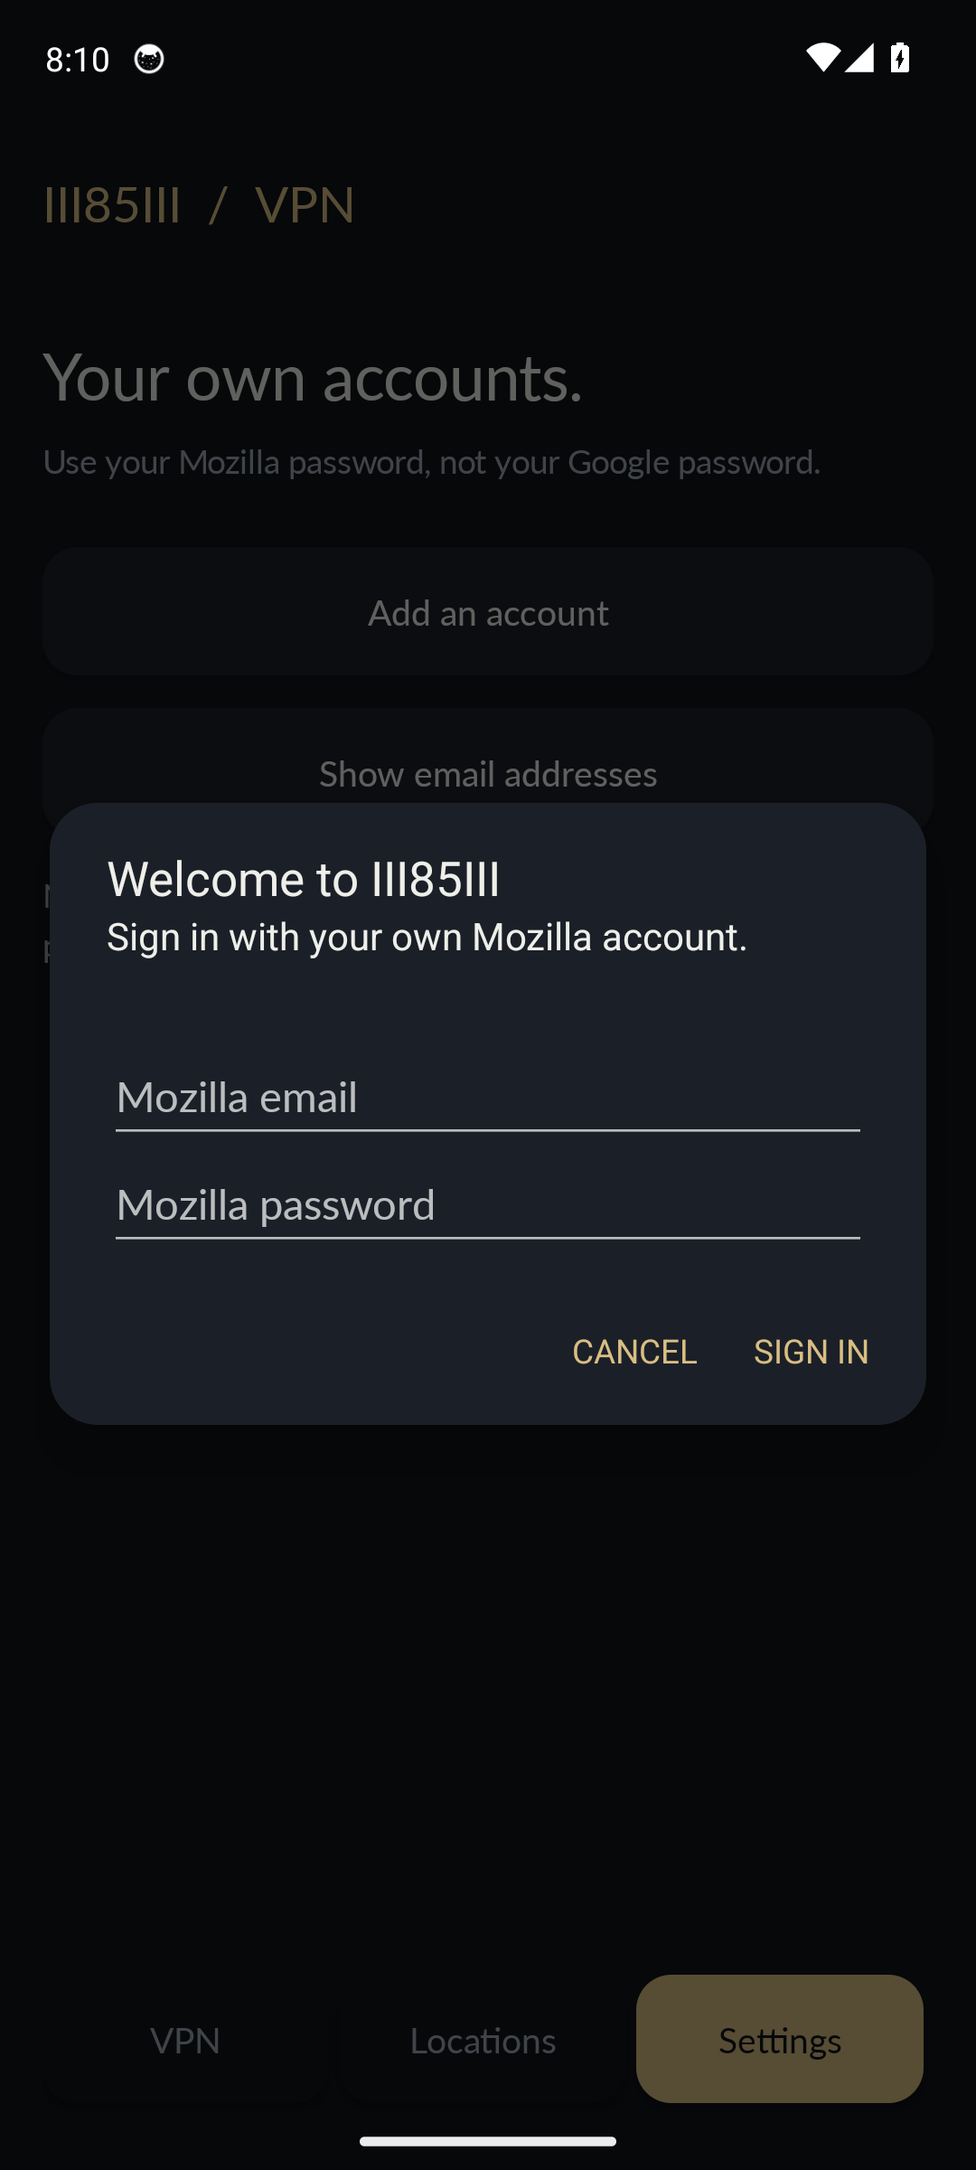
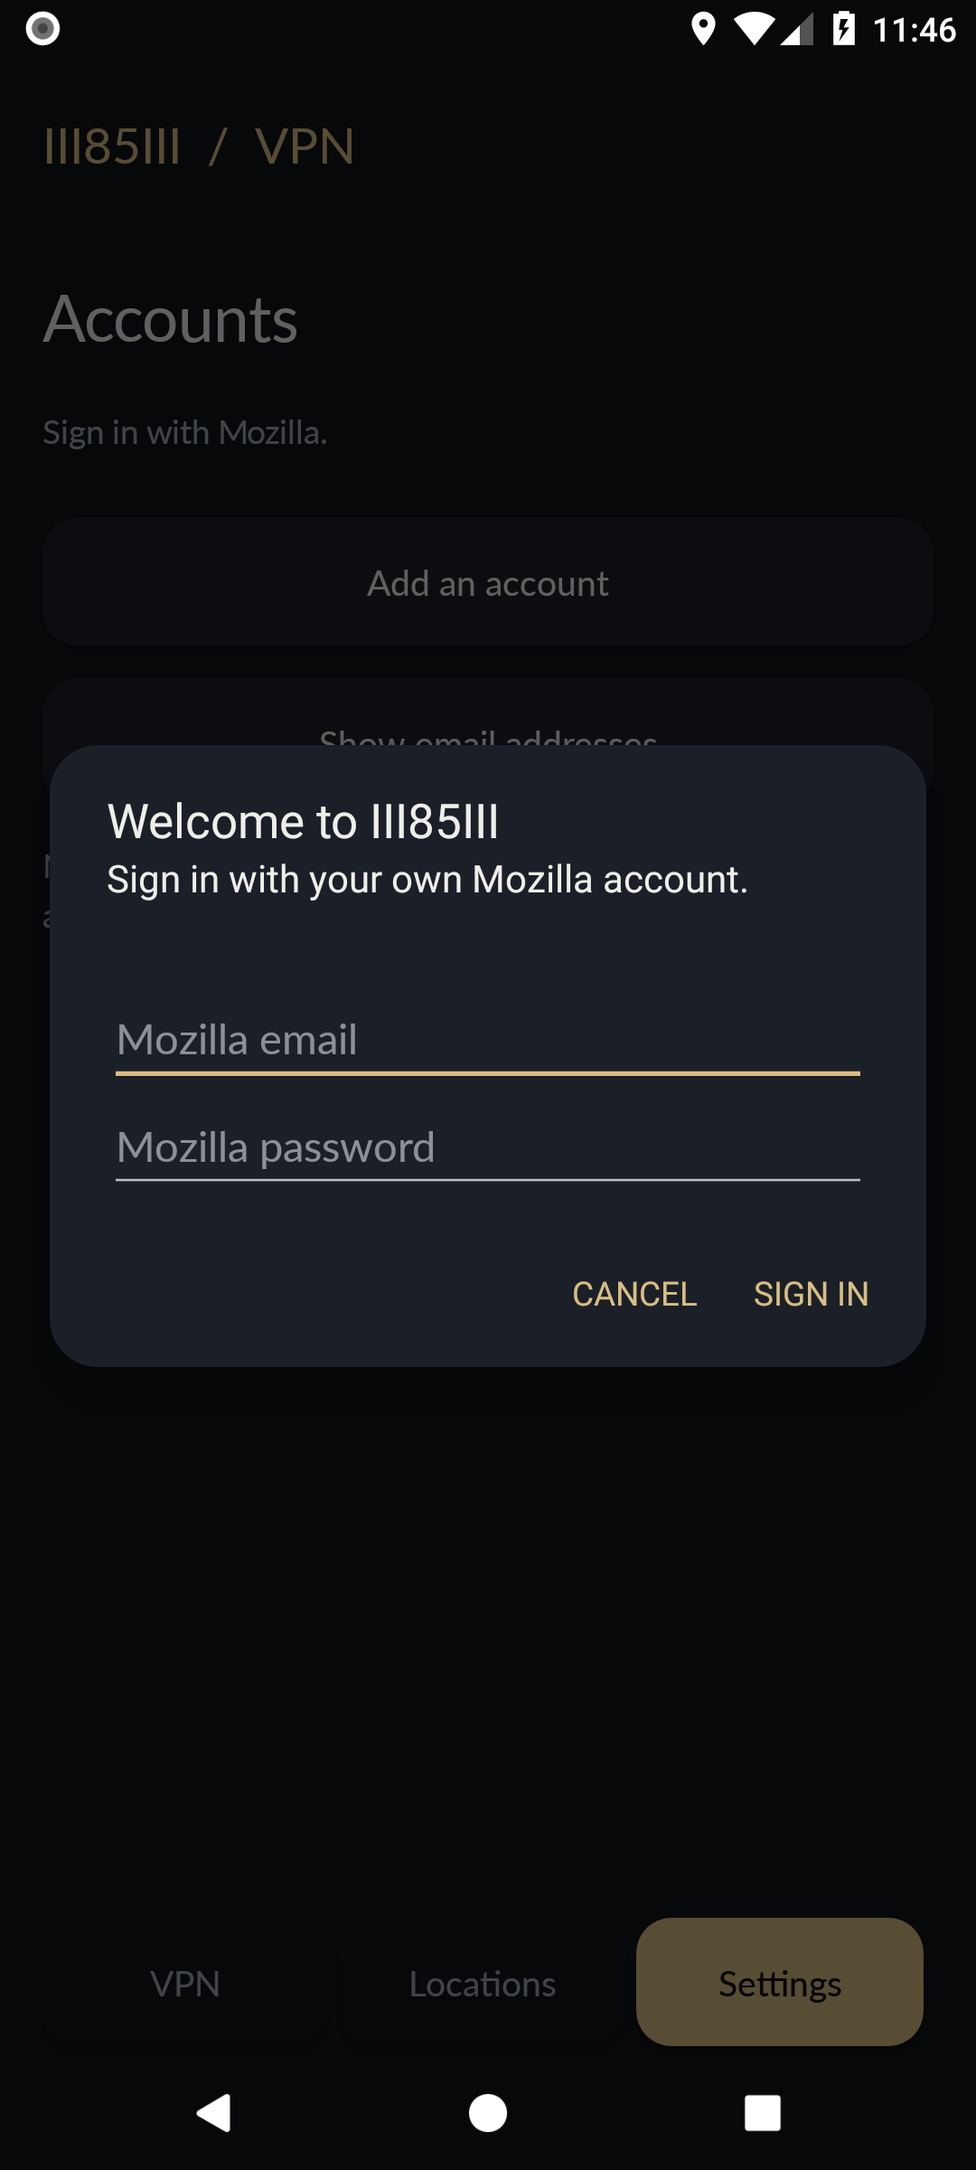
Polish app notices and document validated tunnel fix

diff --git a/native/III85III.Vpn.cs b/native/III85III.Vpn.cs
@@ -553,7 +553,7 @@ namespace III85III.Vpn {
 
     internal sealed class LocationCard : KeyboardActionControl {
         public string LocationName = "Recommended";
-        public string Subtitle = "We'll choose a location for you";
+        public string Subtitle = "Automatic server";
         public string Latency = "— ms";
         public string CountryCode = "";
         private bool isHovered, isPressed;
@@ -1079,7 +1079,7 @@ namespace III85III.Vpn {
             });};
             removeAccountBtn.Click += async delegate {
                 if (accountsList.SelectedItems.Count == 0) return;
-                if (MessageBox.Show(this, "Remove this Mozilla account and its stored credentials?", "Remove account", MessageBoxButtons.YesNo, MessageBoxIcon.Question) != DialogResult.Yes) return;
+                if (!ConfirmAction("Remove account?","This removes the saved session from this device.","Remove")) return;
                 await Run(async delegate {
                     string id = Convert.ToString(accountsList.SelectedItems[0].Tag);
                     await engine.Api("DELETE", "/api/accounts/" + Uri.EscapeDataString(id));
@@ -1116,7 +1116,7 @@ namespace III85III.Vpn {
                         await LoadLocations();
                     } catch { }
                 } catch (Exception e) {
-                    dialSubtext.Text = "Engine error: " + e.Message;
+                    ShowFailure(e.Message);
                     logsBox.Text = e.Message;
                 }
             };
@@ -1298,7 +1298,7 @@ namespace III85III.Vpn {
 
             p.Controls.Add(metricsPanel);
 
-            noticeLabel.Text = "Account saved on this device.";
+            noticeLabel.Text = "Accounts stay on this device.";
             noticeLabel.Font = Theme.Font(9f);
             noticeLabel.ForeColor = Theme.TextSubtle;
             noticeLabel.TextAlign = ContentAlignment.MiddleCenter;
@@ -1856,12 +1856,14 @@ namespace III85III.Vpn {
             splitBrowse.Enabled = enabled;
         }
 
-        private bool ConfirmRepair() {
-            using(var dialog=new Form{Text="III85III VPN",BackColor=Theme.Bg,ForeColor=Theme.TextPrimary,ClientSize=new Size(480,200),StartPosition=FormStartPosition.CenterParent,FormBorderStyle=FormBorderStyle.FixedDialog,MaximizeBox=false,MinimizeBox=false,ShowInTaskbar=false}){
-                dialog.Controls.Add(new Label{Text="Repair your VPN service",Font=Theme.Font(17f,FontStyle.Bold),ForeColor=Theme.TextPrimary,Bounds=new Rectangle(24,20,432,36)});
-                dialog.Controls.Add(new Label{Text="This disconnects the VPN and asks for Windows administrator approval. Your accounts stay saved.",Font=Theme.Font(11f),ForeColor=Theme.TextSecondary,Bounds=new Rectangle(24,68,432,62)});
+        private bool ConfirmRepair() {return ConfirmAction("Repair VPN service","This disconnects VPN and asks for Windows administrator approval. Your accounts stay saved.","Repair");}
+        internal bool ConfirmAction(string title,string message,string action) {
+            using(var dialog=new Form{Text="III85III VPN",BackColor=Theme.Bg,ForeColor=Theme.TextPrimary,ClientSize=new Size(480,200),StartPosition=FormStartPosition.CenterParent,FormBorderStyle=FormBorderStyle.None,MaximizeBox=false,MinimizeBox=false,ShowInTaskbar=false}){
+                dialog.Paint+=delegate(object sender,PaintEventArgs e){using(var pen=new Pen(Theme.Border))e.Graphics.DrawRectangle(pen,0,0,dialog.ClientSize.Width-1,dialog.ClientSize.Height-1);};
+                dialog.Controls.Add(new Label{Text=title,Font=Theme.Font(17f,FontStyle.Bold),ForeColor=Theme.TextPrimary,Bounds=new Rectangle(24,20,432,36)});
+                dialog.Controls.Add(new Label{Text=message,Font=Theme.Font(11f),ForeColor=Theme.TextSecondary,Bounds=new Rectangle(24,68,432,62)});
                 var cancel=new LuxuryButton{Text="Cancel",Variant=ButtonVariant.Ghost,DialogResult=DialogResult.Cancel,Bounds=new Rectangle(224,144,100,36)};
-                var repair=new LuxuryButton{Text="Repair",DialogResult=DialogResult.OK,Bounds=new Rectangle(336,144,120,36)};
+                var repair=new LuxuryButton{Text=action,DialogResult=DialogResult.OK,Bounds=new Rectangle(336,144,120,36)};
                 dialog.Controls.Add(cancel);dialog.Controls.Add(repair);dialog.AcceptButton=repair;dialog.CancelButton=cancel;return dialog.ShowDialog(this)==DialogResult.OK;
             }
         }
@@ -1880,11 +1882,13 @@ namespace III85III.Vpn {
             ShowNotice("Connection problem",FriendlyFailure(detail),detail,true);
         }
         internal void ShowNotice(string title,string message,string detail,bool repair) {
-            using(var dialog=new Form {Text="III85III VPN",StartPosition=FormStartPosition.CenterParent,FormBorderStyle=FormBorderStyle.FixedDialog,MaximizeBox=false,MinimizeBox=false,ShowInTaskbar=false,BackColor=Theme.Bg,ForeColor=Theme.TextPrimary,ClientSize=new Size(520,220),AutoScaleMode=AutoScaleMode.Dpi}) {
+            using(var dialog=new Form {Text="III85III VPN",StartPosition=FormStartPosition.CenterParent,FormBorderStyle=FormBorderStyle.None,MaximizeBox=false,MinimizeBox=false,ShowInTaskbar=false,BackColor=Theme.Bg,ForeColor=Theme.TextPrimary,ClientSize=new Size(520,220),AutoScaleMode=AutoScaleMode.Dpi}) {
+                dialog.Paint+=delegate(object sender,PaintEventArgs e){using(var pen=new Pen(Theme.Border))e.Graphics.DrawRectangle(pen,0,0,dialog.ClientSize.Width-1,dialog.ClientSize.Height-1);};
                 var heading=new Label{Text=title,Font=Theme.Font(18f,FontStyle.Bold),ForeColor=Theme.TextPrimary,Bounds=new Rectangle(24,22,472,38)};
                 var summary=new Label{Text=message,Font=Theme.Font(11f),ForeColor=Theme.TextSecondary,Bounds=new Rectangle(24,70,472,66)};
                 var details=new TextBox{Multiline=true,ReadOnly=true,ScrollBars=ScrollBars.Vertical,Text=detail,BackColor=Theme.Surface,ForeColor=Theme.TextSecondary,BorderStyle=BorderStyle.FixedSingle,Bounds=new Rectangle(24,208,472,120),Visible=false};
                 var expand=new LuxuryButton{Text="Technical details",Variant=ButtonVariant.Ghost,Bounds=new Rectangle(24,155,152,38)};
+                expand.Visible=!String.IsNullOrEmpty(detail);
                 expand.Click+=delegate{details.Visible=!details.Visible;dialog.ClientSize=new Size(520,details.Visible?352:220);expand.Text=details.Visible?"Hide details":"Technical details";};
                 var close=new LuxuryButton{Text="Got it",Bounds=new Rectangle(382,155,114,38),DialogResult=DialogResult.OK};
                 dialog.Controls.AddRange(new Control[]{heading,summary,details,expand,close});dialog.AcceptButton=close;dialog.CancelButton=close;
@@ -1997,7 +2001,7 @@ namespace III85III.Vpn {
             try {
                 await engine.Api("POST", "/api/locations/ping", new { codes = new string[0] }, 60000);
                 if (!closing) await LoadLocations();
-            } catch (Exception error) { if (!closing) dialSubtext.Text = error.Message; }
+            } catch (Exception error) { if (!closing) ShowNotice("Ping test failed","Try again or choose another server.",error.Message,false); }
             finally {
                 pingScanBusy = false;
                 if (!closing) { pingBtn.Text = diagPingBtn.Text = "Test ping"; pingBtn.Enabled = diagPingBtn.Enabled = ready && !busy; }
@@ -2013,22 +2017,10 @@ namespace III85III.Vpn {
                     break;
                 }
             }
-            if (targetChoice == null) {
-                string[] candidates = new [] { "de", "nl", "us", "fr" };
-                foreach (var c in candidates) {
-                    foreach (var sc in allLocations) {
-                        if (sc.Code.Equals(c, StringComparison.OrdinalIgnoreCase)) {
-                            targetChoice = sc;
-                            targetCode = c;
-                            break;
-                        }
-                    }
-                    if (targetChoice != null) break;
-                }
-            }
+            if (targetChoice == null) throw new IOException("United Kingdom is unavailable. Choose another server.");
 
             await engine.Api("POST", "/api/location", new { country = targetCode });
-            selectedLocationCard.LocationName = targetChoice != null ? targetChoice.Name + "" : "United Kingdom";
+            selectedLocationCard.LocationName = targetChoice.Name;
             selectedLocationCard.CountryCode = targetCode;
             selectedLocationCard.Latency = (targetChoice != null && targetChoice.PingMs > 0) ? targetChoice.PingMs + " ms" : "— ms";
             selectedLocationCard.Invalidate();

diff --git a/native/Updates.cs b/native/Updates.cs
@@ -39,7 +39,8 @@ namespace III85III.Vpn {
                 }
                 if(owner.IsDisposed||(!manual&&Form.ActiveForm!=owner))return;
                 if(new Version(update.Version)<=Assembly.GetExecutingAssembly().GetName().Version){if(manual)Notice(owner,"You're up to date","You're using the latest Windows version.");return;}
-                if(MessageBox.Show(owner,"III85III VPN "+update.Version+" is available.\n\nDownload and open the installer? The VPN will disconnect during installation. Your local accounts will be kept.","Update available",MessageBoxButtons.YesNo,MessageBoxIcon.Information)!=DialogResult.Yes)return;
+                var window=owner as MainForm;
+                if(window==null || !window.ConfirmAction("Update available","Version "+update.Version+" is ready. VPN disconnects during installation. Your accounts stay saved.","Update"))return;
                 string directory=Path.Combine(Environment.GetFolderPath(Environment.SpecialFolder.LocalApplicationData),"III85III VPN","updates");
                 long required=update.Size*3+50L*1024*1024;
                 if(new DriveInfo(Path.GetPathRoot(directory)).AvailableFreeSpace<required){Notice(owner,"A little more space is needed","Free at least "+Math.Ceiling(required/(1024d*1024))+" MB on the Windows drive and try again. Nothing was installed.");return;}

diff --git a/native/LatencyTests.cs b/native/LatencyTests.cs
@@ -42,8 +42,12 @@ namespace III85III.Vpn {
             using(var engine=new Engine("unused","unused",fixture.Endpoint,"synthetic-local-token"))
             using(var form=new MainForm(engine,true)){
                 Set(form,"ready",true);Call(form,"SetActions",true);fixture.Release.Set();
-                Finish((Task)Call(form,"MeasureLocationLatency"));fixture.Finish();
-                Check(((Label)Field(form,"dialSubtext")).Text.Contains("Latency fixture unavailable"),"failed measurement reports the engine error");
+                bool noticeSeen=false;
+                using(var timer=new System.Windows.Forms.Timer{Interval=50}){
+                    timer.Tick+=delegate{foreach(Form notice in Application.OpenForms)if(notice!=form){noticeSeen=true;notice.DialogResult=DialogResult.OK;break;}};timer.Start();
+                    Finish((Task)Call(form,"MeasureLocationLatency"));fixture.Finish();
+                }
+                Check(noticeSeen,"failed ping test opens an in-app notice instead of exposing a raw error on Home");
                 Check(((Button)Field(form,"pingBtn")).Enabled&&!((bool)Field(form,"pingScanBusy")),"failed measurement can be retried");
                 Check(fixture.Count==1,"failed measurement does not refresh locations or retry silently");
             }

diff --git a/.github/README.md b/.github/README.md
@@ -12,8 +12,8 @@ Free VPN is a free application by **III85III** for Windows and Android. Sign in 
 
 | Platform | Download | Requirements |
 | --- | --- | --- |
-| Windows | [Windows installer](https://github.com/III85III/Free-Vpn/releases/download/v2.3.1/III85III-VPN-Setup.exe) | Windows x64 · 2.2.1 |
-| Android | [Android APK](https://github.com/III85III/Free-Vpn/releases/download/v2.3.1/III85III-VPN.apk) | Android 8.0+, arm64 or x86-64 · 2.3.1 |
+| Windows | [Windows installer](https://github.com/III85III/Free-Vpn/releases/download/v2.3.2/III85III-VPN-Setup.exe) | Windows x64 · 2.2.2 |
+| Android | [Android APK](https://github.com/III85III/Free-Vpn/releases/download/v2.3.2/III85III-VPN.apk) | Android 8.0+, arm64 or x86-64 · 2.3.2 |
 
 Android is distributed directly here. Real-phone Mozilla sign-in and tunnel routing still need validation; see [completed checks and limitations](../mobile/VALIDATION.md). There is no signed App Store version yet.
 
@@ -21,7 +21,7 @@ Android is distributed directly here. Real-phone Mozilla sign-in and tunnel rout
 
 ## Getting started
 
-1. Download **III85III-VPN-Setup.exe** from the [current release](https://github.com/III85III/Free-Vpn/releases/tag/v2.3.1).
+1. Download **III85III-VPN-Setup.exe** from the [current release](https://github.com/III85III/Free-Vpn/releases/tag/v2.3.2).
 2. Run Setup, then open **III85III VPN**. The interface starts in English.
 3. Add your own Mozilla account using your Mozilla password. If Mozilla requests a verification code, enter it in the separate code window.
 4. Choose your connection mode and location, then connect. Use **Check connection** to inspect the connection result.
@@ -32,7 +32,7 @@ Windows x64 is the supported platform. The installer keeps your saved account da
 
 1. Download **III85III-VPN.apk** using the Android link above. Allow installation from the browser or file manager when Android asks.
 2. Open **Settings → Mozilla accounts** and add your own account. Verification codes appear in a separate step when requested.
-3. Choose a location, read the connection disclosure and approve Android's VPN permission. **Split tunneling** lets selected applications connect directly.
+3. Choose a location, read the connection disclosure and approve Android's VPN permission. **App rules** lets selected applications connect directly.
 4. Disconnect in Home, the persistent VPN notification or Android VPN settings. Manual disconnect does not trigger automatic reconnection.
 
 Install future APK updates over the existing app to retain its local data. The release uses the same III85III signing identity as Android 2.2.0. Keep accounts and diagnostic files private. A running VPN indicator alone does not prove that every application or protocol is protected.

diff --git a/docs/VALIDATION.md b/docs/VALIDATION.md
@@ -1,5 +1,13 @@
 # Validation
 
+## Windows 2.2.2 and Android 2.3.2
+
+Windows passed the native API/state, connection, layout, ping, sign-in, verification, update-policy, polling, keyboard and installer suites. The connection fixture holds the API reply and verifies that the button already shows Connecting. Installer checks verify that SYSTEM receives read/execute access without write access. A failed ping opens a themed app notice. Automatic server choices remain pinned during sorting and search.
+
+A user-authorized test on the owner's Windows installation reproduced and corrected the missing SYSTEM access permission. Whole computer reached TUN `on`; the engine connection test passed. A separate fresh HTTPS client with Windows proxy use disabled reported a different egress address in TUN mode than before connection. Only result booleans were retained; IP addresses and account data were not recorded. The original proxy mode was restored. This checks one machine, account and TCP path; it is not a universal network, UDP, leak-prevention or kill-switch guarantee. No Go/backend code was changed.
+
+Android 2.3.2 passed build, lint, unit tests (including the new pinned-server ordering checks) and [Android 8/14/16 emulator validation](https://github.com/III85III/Free-Vpn/actions/runs/40974953443). The emulator checks cover fresh local API authentication, sign-in form/cancel, privacy, rotation, synthetic native TUN DNS and an actual user-confirmed in-app update. Real-phone Mozilla sign-in, egress and background/handover remain unverified.
+
 ## Windows 2.2.1 and Android 2.3.1
 
 Windows passed 48 API/state checks, a saved-account home-button integration fixture, 528 layout checks, 18 latency checks, 21 sign-in lifecycle checks, five verification-conflict/stale-prompt checks, six update-metadata checks, 14 polling checks, 29 keyboard checks and 33 installer-recovery checks. Run `tools/test.ps1` to reproduce the native suites.

diff --git a/docs/readme/README.fa.md b/docs/readme/README.fa.md
@@ -1,4 +1,4 @@
-<!-- language-selector:start -->
+<!-- language-selector:start -->
 [🇬🇧 English](../../.github/README.md) · **🇮🇷 فارسی** · [🇸🇦 العربية](README.ar.md) · [🇹🇷 Türkçe](README.tr.md) · [🇩🇪 Deutsch](README.de.md) · [🇫🇷 Français](README.fr.md) · [🇪🇸 Español](README.es.md) · [🇧🇷 Português](README.pt.md) · [🇷🇺 Русский](README.ru.md) · [🇨🇳 简体中文](README.zh.md) · [🇯🇵 日本語](README.ja.md) · [🇮🇳 हिन्दी](README.hi.md)
 <!-- language-selector:end -->
 
@@ -14,7 +14,7 @@
 
 ## شروع استفاده
 
-[نصبکنندهٔ Windows](https://github.com/III85III/Free-Vpn/releases/download/v2.3.1/III85III-VPN-Setup.exe) · [دانلود APK اندروید](https://github.com/III85III/Free-Vpn/releases/download/v2.3.1/III85III-VPN.apk)
+[نصبکنندهٔ Windows](https://github.com/III85III/Free-Vpn/releases/download/v2.3.2/III85III-VPN-Setup.exe) · [دانلود APK اندروید](https://github.com/III85III/Free-Vpn/releases/download/v2.3.2/III85III-VPN.apk)
 
 در Android 8 به بالا، APK را نصب کن، از Settings → Mozilla accounts حساب خودت را اضافه کن و سپس مجوز VPN را تأیید کن. برنامههای انتخابشده در بخش Split tunneling مستقیم وصل میشوند. برای حفظ دادهها، نسخهٔ جدید را روی نسخهٔ قبلی نصب کن. [نتیجهٔ تستها و محدودیتهای موبایل](../../mobile/VALIDATION.md) را ببین؛ اتصال واقعی به موزیلا هنوز به آزمون مستقل نیاز دارد.
 

diff --git a/mobile/VALIDATION.md b/mobile/VALIDATION.md
@@ -1,5 +1,14 @@
 # Mobile build validation
 
+## Current Android release: 2.3.2
+
+Android 2.3.2 (code 23002) passed build, lint, unit tests and fresh Android 8/14/16 emulator checks in [run 40974953443](https://github.com/III85III/Free-Vpn/actions/runs/40974953443). This includes synthetic native TUN DNS and a user-confirmed in-app PackageInstaller update. Its UI uses shorter labels, pinned automatic server choices, immediate account-check feedback and themed error details. Production signing identity is unchanged; real-phone Mozilla sign-in, egress and background/handover remain unverified.
+
+APK SHA-256: 26c7e29aeeb6a5dacb5dae73cd8ad622aaa15baf8e92381a9724db24cbdb0d1e.
+
+## Previous release: 2.3.1
+
+
 Android 2.3.1 at functional commit `f2482ba` passed the [complete Android build, lint and device workflow](https://github.com/III85III/Free-Vpn/actions/runs/40945840604). It uses fresh Android 8, 14 and 16 Google APIs emulators. The separate iOS 2.2.0 project passed the [earlier complete mobile workflow](https://github.com/III85III/Free-Vpn/actions/runs/40885073220). These results do not establish store approval or real-phone Mozilla account/egress behavior.
 
 | Platform | Completed checks | Still requires a real device |

diff --git a/docs/CHANGELOG.md b/docs/CHANGELOG.md
@@ -1,5 +1,14 @@
 # Changelog
 
+## Windows 2.2.2 / Android 2.3.2
+
+- Fix Windows Whole computer startup when the service cannot read the installed engine. New installations grant SYSTEM read/execute access; the app also repairs this program-folder permission before starting TUN. Account storage is separate.
+- Show connection-button feedback immediately, refresh transitions sooner and remove a fixed delay from server switching.
+- Keep Recommended, Fastest and automatic server choices above countries, including during ping sorting and search.
+- Use shorter labels such as Test ping and remove repeated copy from the main screens.
+- Show Windows errors and confirmations in themed app dialogs with optional technical details. Android errors use a short summary with expandable details.
+- Keep the existing backend, Android signing identity and in-app update path.
+
 ## Windows 2.2.1 / Android 2.3.1
 
 - Add platform-specific GitHub update checks, update prompts, verified downloads and user-confirmed installation from the app. No personal VPS is required.

diff --git a/mobile/README.md b/mobile/README.md
@@ -37,7 +37,7 @@ An unsigned IPA cannot be installed as an ordinary App Store/TestFlight applicat
 
 ## Validation limits
 
-Android 2.3.1 and unsigned iOS 2.2.0 have separate build and validation results. See [validation details](VALIDATION.md) for the exact checks and remaining device/store work.
+Android 2.3.2 and unsigned iOS 2.2.0 have separate build and validation results. See [validation details](VALIDATION.md) for the exact checks and remaining device/store work.
 
 Android has three main tabs, saved-account selection and direct-app rules in Settings. In-app updates use public GitHub metadata, verified downloads and Android's user-confirmed PackageInstaller. This direct GitHub build requests permission to install updates; a future Google Play build must use Play's update mechanism instead.
 
